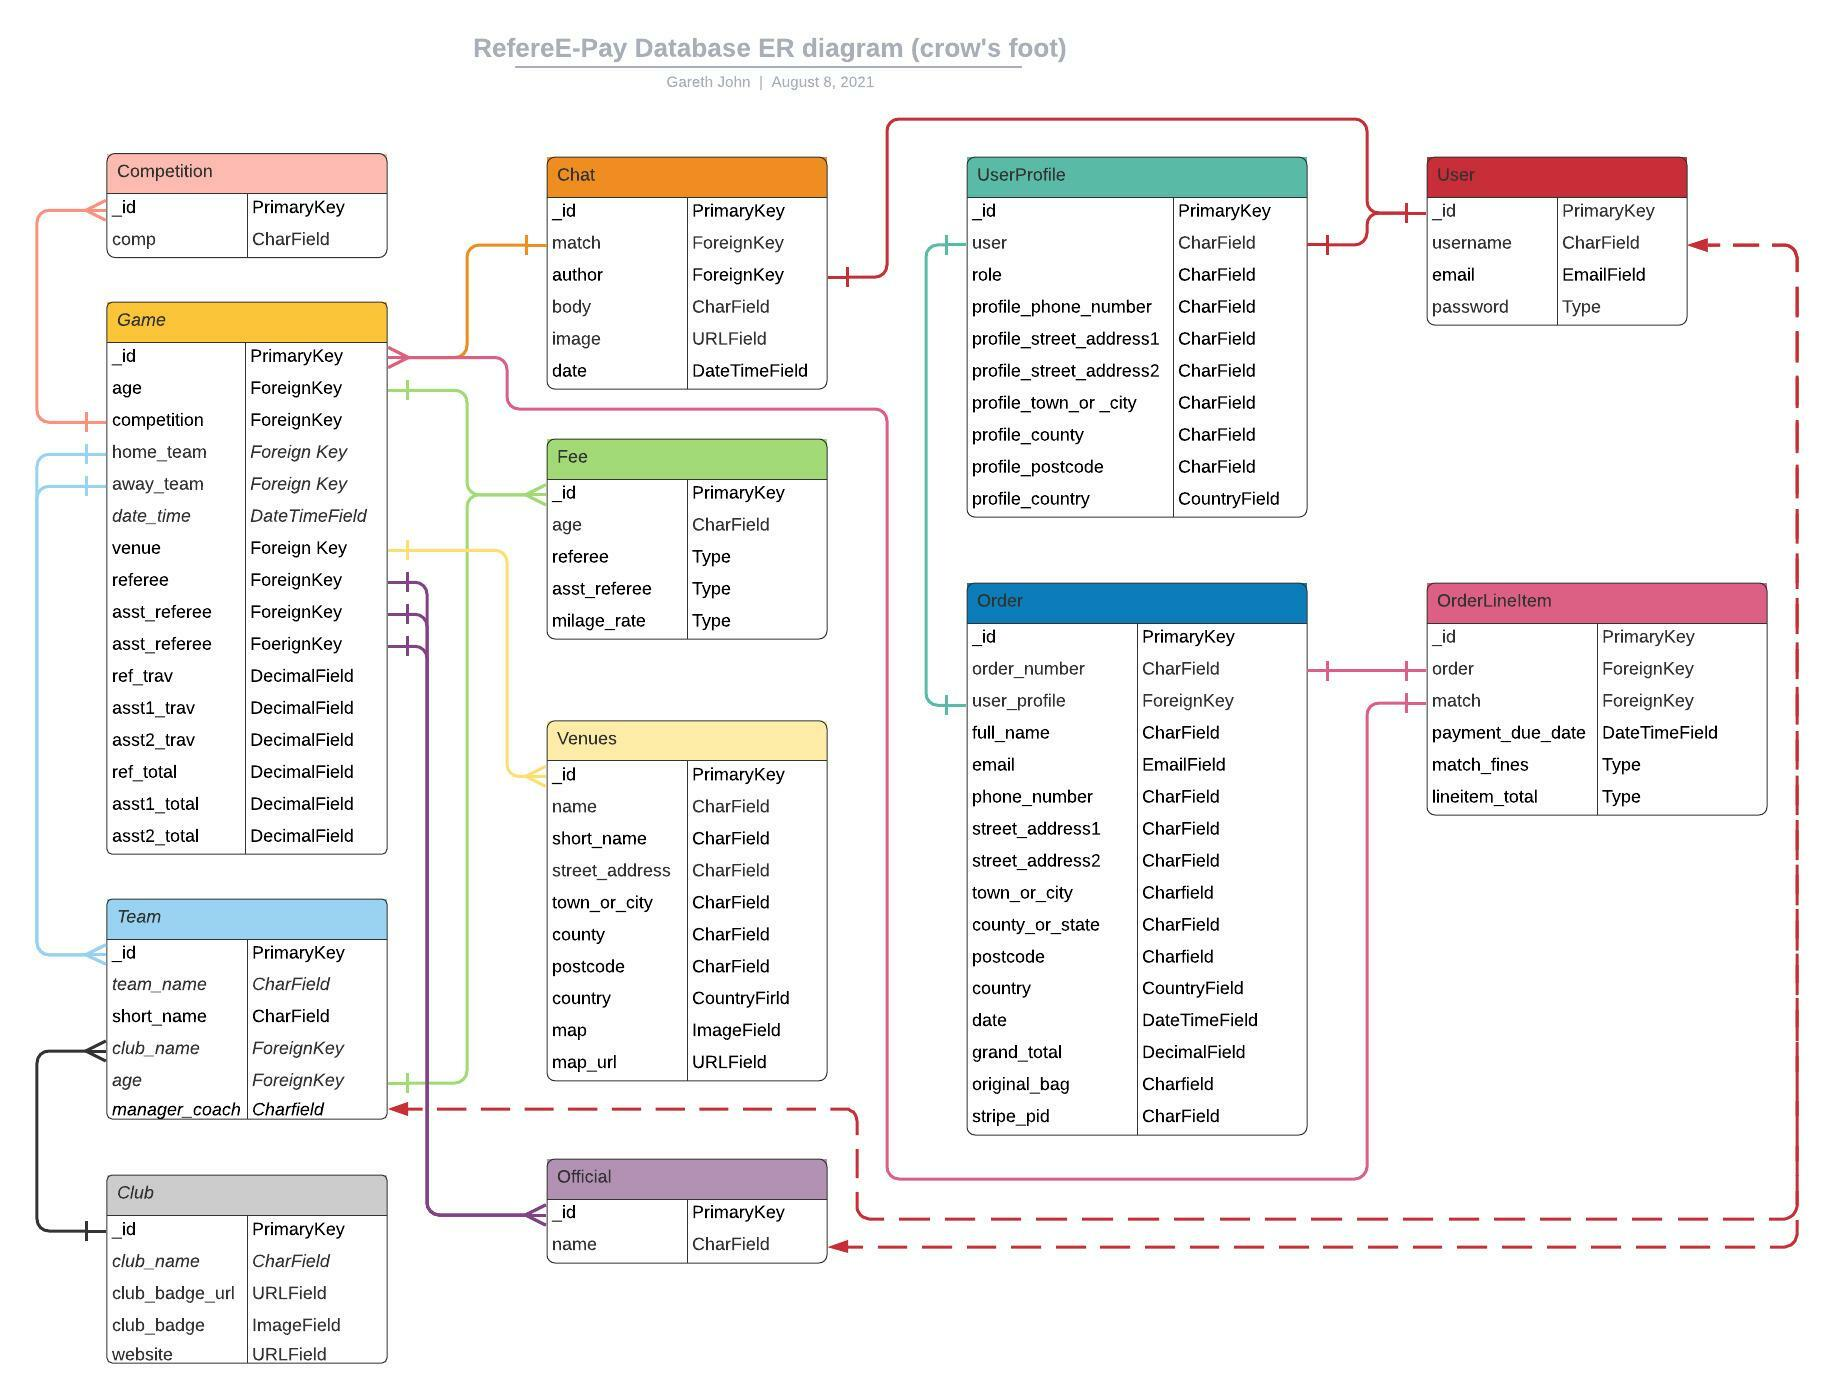
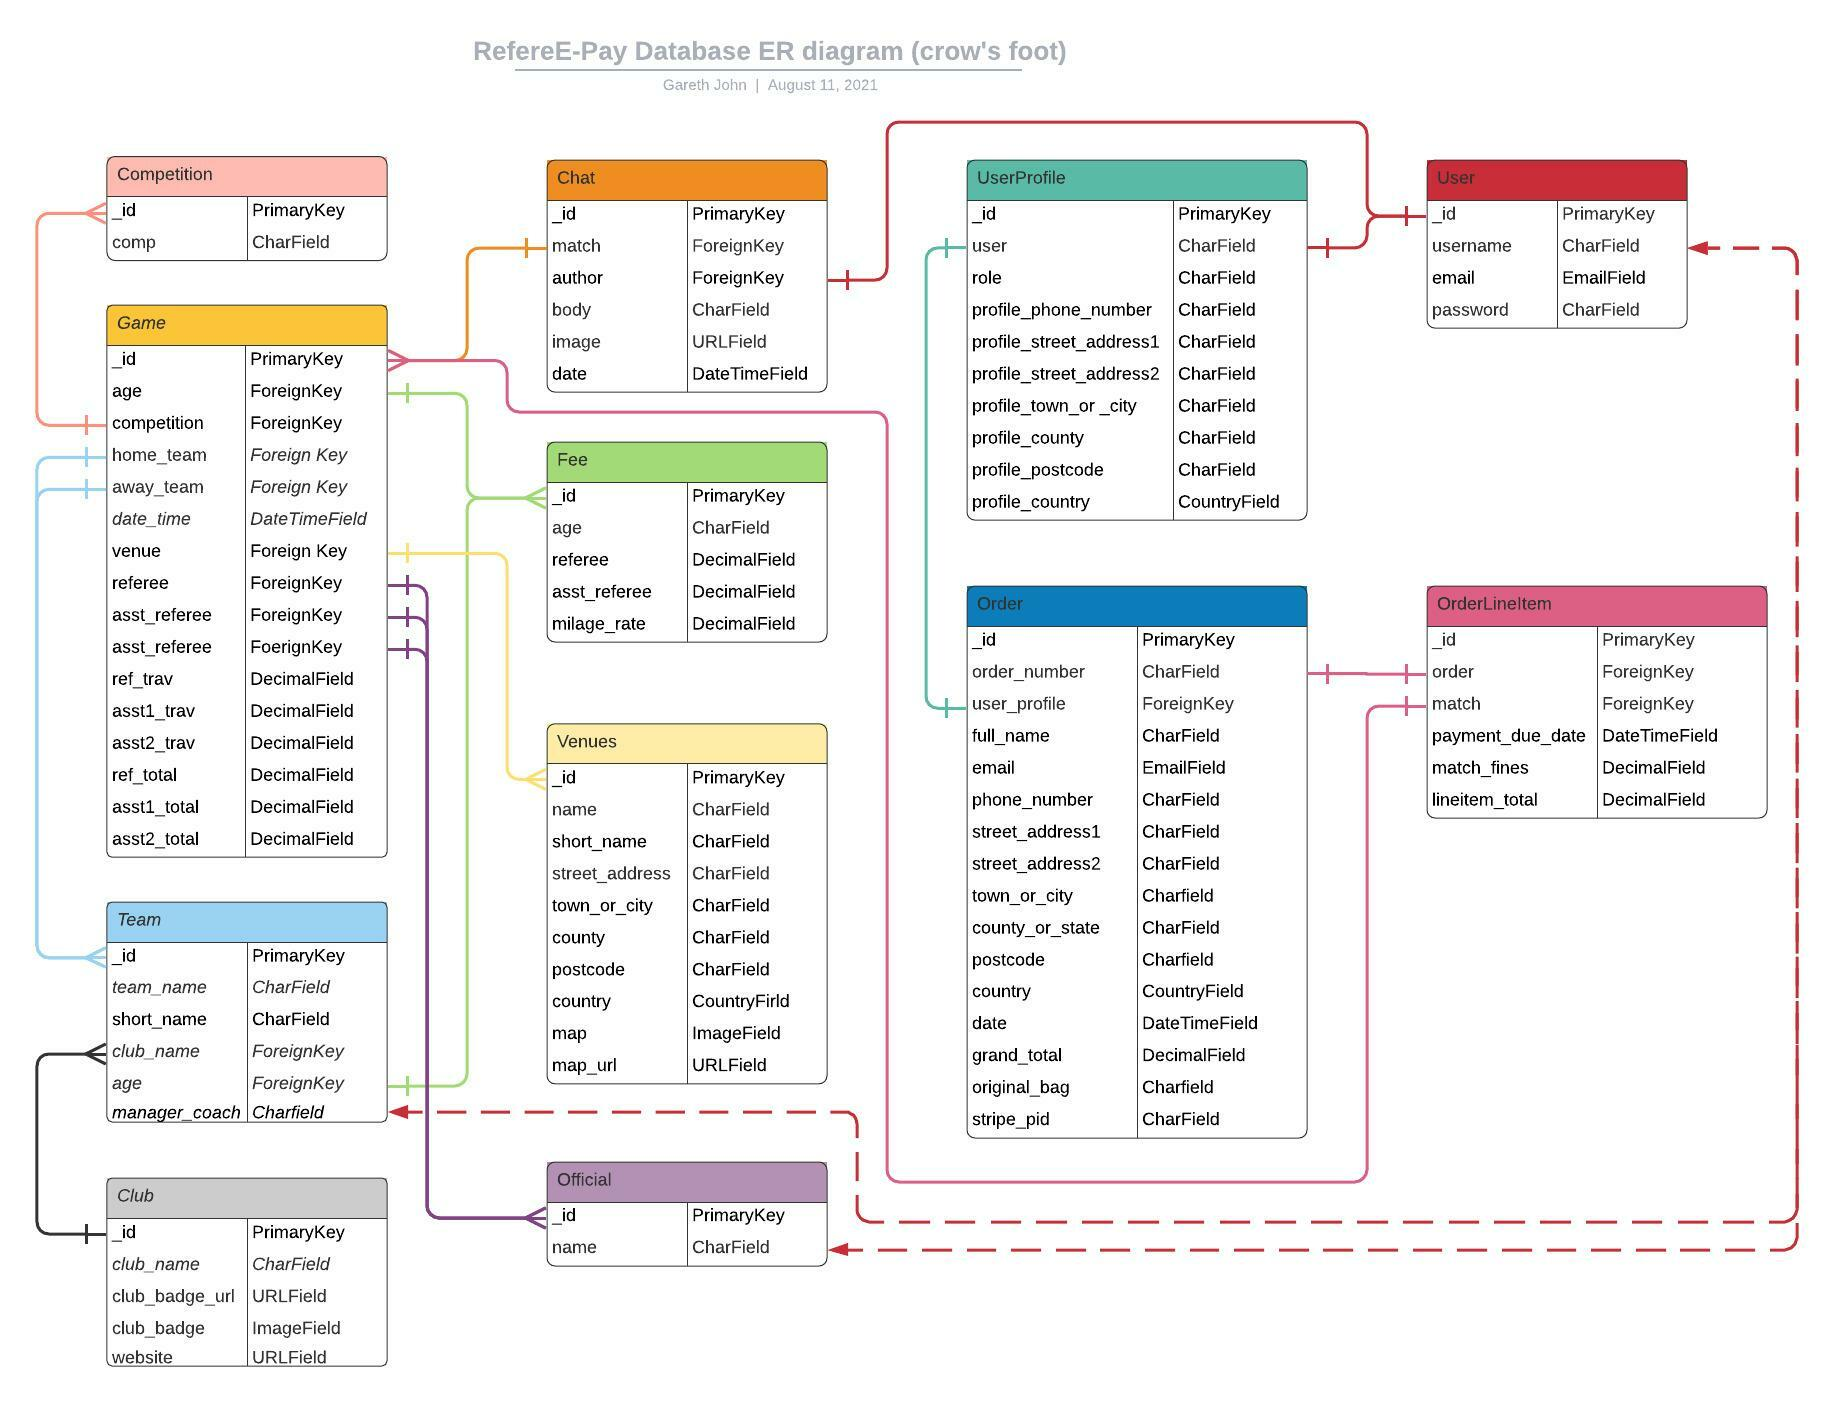
Add content to DB Schema section of README and update 2 images for same

diff --git a/README.md b/README.md
@@ -436,26 +436,126 @@ ______
 
 ## **Database Schema** <a name="dbschema"></a>  
 This app was developed using a SQLite3 database, but was transferred over to a Postgres DB on Deployment.
-The ER diagram below illustrates the relationships between the each of the Models.
+The database schema below illustrates the relationships between the each of the Models.
 ![RefereE-Pay Schema](https://github.com/GazzaJ/CI-MS4-RefereE-pay/blob/master/ReadMe_Images/referee-pay-db-schema.jpeg "Database Schema")
 
-The schema contains four collections, with each collection containing multiple documents. 
- - **Users**
- Stores user data. Initially populated with username and password and a default profile image when users register on the app. Once logged in users can upload their own image URL, specify their town or city. If the user elects to subscribe to the site, they are then able to provide their email address.
-> **_I chose to do it this way so users are only required to provide some basic information and can register very easily. Once registered they can decide how much more they want to input at any subsequent point. I believe this simplifies the registration process_**
+The schema contains twelve database tables which can be divided into Three categories:
+1. User related data used to store individuals data like usernames, passwords, roles etc.
+2. Those required to build up the Game details and associated logic like match fees.
+3. Those required to process and store the match charges payment transactions.
 
- - **Countries**
- This collection was populated from JSON file of 254 countries using the MongoDB Compass app, which simplified the transfer of the data into individual documents within the collection. The JSON data was copied from (https://flagpedia.net/download/api) and uses the CDN link provided on the website to display the flags on the recipe cards and pages. The individual UK countries were subsequently added into the collection by myself, as they did not appear in the original JSON file.
- Each document contains two id fields; the Atlas provided id and that provided in the JSON data. It also contains the country name, an alpha2 field which is the ISO two letter country code and an alpha3 field which is the ISO three letter country code.  
- The alpha2 code is used to render the appropriate country flag.  
+ - **User**
+ Stores user data collected through the AllAuth registration process:
+    - Username
+    - email
+    - password
+Additional paramaters like First Name, Last Name and the users Admin/superuser status can be set in the Admin console.
 
- - **Recipe Category**
- The recipe_category collection contains short documents each defining the type of meal category each recipe might be identified by; such as Breakfast, Brunch, Lunch, Dinner, Desserts, Snacks, Appetisers and Sides. The recipe type documents were populated by myself and can be queried when a recipe is created or edited.
-> **_There are many different ways to categorise recipes, but the one selected seems the most appropriate for my application_**
+ - **Fee**
+    This table stores the Match Officials match fees by age group and role:
+    - Age e.g. U10 (Under 10)
+    - Referee (referees match fee £)
+    - Asst_referee (assistant referees match fee £)
+    - Milage rate (agreed value  per mile travelled in excess of 10 miles)
+    >I have included the milage rate for travel expenses in the event I change the logic, in future versions, to calculate the travel expenses by distance travellled rather than allowing match officials to input their expenses.
+
+ - **Venue**
+    The Venuw table stores the pitch location details, can be rendered to provide pitch location information to website users, who are Team Coaches, Match Officials or potentially supporters :
+    - Name (Playing field name)
+    - Short name (Convenient short name if required)
+    - Street Address
+    - Town or City
+    - County
+    - Postcode
+    - Country
+    - Map (Map showing park layout with actual pitch locations)
+    - Map_url (Link to Google maps)
+
+ - **Official**
+    This is a simple table storing the name of each match officials
+
+ - **Competition**
+    Another simple table to store the name of each competition. Enables games to be grouped into distinct competitions by ability for instance.
+
+ - **Club**
+    Stores a limited set of Club information, sufficient for proof of concept:
+    - Club Name
+    - Club Badge url
+    - Club Badge (Image file upload)
+    - Website url (Club website url)
+    > Arguably this could be expanded in the future to include details such as address, contact numbers and email address.
+
+ - **Team**
+    The Team table stores the basic critical information for each Team:
+    - Team Name
+    - Short Name (Convenient short name if required for smaller displays)
+    - Club Name contains a Foreign Key back to the "Clubs" table, associates each team to a Parent Club.
+    - Age contains a Foreign Key back to the Fees table and categorises each team into a particular age group. Ensures teams of similar age can be selected to play each other.
+    - Manager/Coach lists the Teams Manager or Coach contains a loose logical link back to the Users Table
+
+ - **Game**
+    This table is where much of the previous tables data is joined:
+    - Age - contains a Foreign Key back to the Fees table, enables each game to be categorised by age.
+    - Competition - contains a Foreign Key to the Competitions Table and allows each game to be grouped by it's competition.
+    - Home Team - Foreign Key to the Teams Table and sets the Home team for a game.
+    - Away Team - Foreign Key to the Teams Table and sets the Away team for a game.
+    - Date_Time - A datetime field which is associated with each Games kick off date and time.
+    Also important for calculating match fines (nonpayment fines), and limits when Match Officials can upload travel expenses, and when Coaches or Refs can communicate with each other.
+    - Venue - has a Foreign Key back to the Venue table so each game can be assigned a playing field/pitch
+    - Referee field - a Foreign Key back to the Match Officials table, enabling the assignment of a match referee
+    - Asst_Referee1 - a Foreign Key back to the Match Officials table, enabling the assignment of a match assistant referee. All Match officials are essentially qualified referees so there is no additional complexity of assigning specific roles to each match official.
+    - Asst_Referee2 - a Foreign Key back to the Match Officials table, enabling the assignment of a match assistant referee. All Match officials are essentially qualified referees so there is no additional complexity of assigning specific roles to each match official.
+    - Ref_trav - added to store the input from Match Officials as and when they update any travel expenses
+    - Asst1_trav - added to store the input from Match Officials as and when they update any travel expenses
+    - Asst2_trav - added to store the input from Match Officials as and when they update any travel expenses
+    - Ref_total - display the total fee for the referee combining match fee with any travel expenses
+    - Asst1_total - display the total fee for the assistant referee (if assigned) combining match fee with any travel expenses
+    - Asst2_total - display the total fee for the assistant referee (if assigned) combining match fee with any travel expenses
+
+ - **Chat**
+ Stores messages associated with an associated game, so the messages can be rendered by game and by authors role. This table is critical to allow in app communication between coach and ref.
+    - Match - is a Foreign Key back to the game_id, and allows storage of messages by game
+    - Author - a Foreign Key back to the User Table identifies the author of the message
+    - Body - The content of the message
+    - Image - Coaches and Refs are thus able to upload and save match related images, like the condition of the pitch, goals etc.
+    - date - a date time field with auto_now_add set to True, and provides a means to order the messages by, so they are displayed chronologically
+    - 
+ - **User Profile**
+    Primarily used to store Billing address information and a their role if applicable. Used to prefill the payment details for any subsequent orders.
+    - User - a one to one relationship back to the All Auth Users table.
+    - Role - Stores a users role e.g. Coach, Match Official or Admin. Is used to set permissions for certain functions by role. For example any superusers and match officials can add Travel expenses, and only Coaches and Superusers can add a match to the kit bag for payment.
+    - Profile_phone_number - stores the users phone number to the Billing information if they choose the save info option on the form field
+    - Profile_street_address1 - stores the first line of the users street address to the Billing information if they choose the save info option on the form field
+    - Profile_street_address2 - stores the second line of the users street address to the Billing information if they choose the save info option on the form field
+    - Profile_town_or_city - stores the users town or city of residence to the Billing information if they choose the save info option on the form field
+    - Profile_county - stores the users county/state to the Billing information if they choose the save info option on the form field
+    - Profile_postcode - stores the users postal code (if applicable) to the Billing information if they choose the save info option on the form field
+    - Profile_country - stores the users country of residence to the Billing information if they choose the save info option on the form field
+
+ - **Order**
+    Stores all of the information critical to processing a payment.
+    - Order_number - Stores the unique alphanumeric number generates for each transaction
+    - User_profile - a Foreign Key back to the Users UserProfile table
+    - Full_name - Records the users full name
+    - Email -  Records the users email address
+    - Phone_number -  Records the users phone number
+    - Street_address1 -  Records the first line of the users street address
+    - Street_address2 -  Records the second line of the users street address
+    - Town_or_city -  Records the users town or city of residence
+    - County_or_state -  Records the users county or state
+    - Postcode -  Records the users potal code
+    - Country -  Records the users country of residence
+    - Date - Stores the date of the transaction if successfully processed by Stripe
+    - Grand_total - Records and saves the Grand total of all matches in the kit bag
+    - Original_bag - Stores the id of games that have been successfully paid for. This is used to identify matches that have already been poaid for and to marck them as paid and remove the "Add to Bag" functionality.
+    - Stripe_pid - Records and saves the stripe pid for the transaction
  
- - **Recipes**
- The recipes collection is the largest in the database as it combines user text input with data retrieved from the other collections; all of the user supplied input with fields from the other collections. I have selected what I view as essential fields for a basic recipe app, though clearly many more could be added.
-Recipe Ingredients and preparation step data is formatted into an Array by splitting the data using each new line. When queried the data is formatted into a list for display.
+ - **Order Lineitem**
+    - Order - is a Foreign key back to the Order_id in the Order Table.
+    - Match - a Foreign Key back to the Game_id of the Game table, associates the lineitems with a specific game
+    - Payment_due_date - a datetime filed used to calculate whether a nonpayment/match fine is applicable. This is set to 24hrs after kick-off date and time. Gives the Coach 24hrs to pay the necessary fees or incur an automatic fine.
+    - Match Fines - Stores the nonpayment fine as an item. This is important to render in the kit bag so Coaches have a full breakdown of the charges they are paying for in each Match.
+    - Lineitem_total - Represents the total for each match and is a sumation of, officials fees, travel expenses and fines.
 
 ___
 ## **Features** <a name="features"></a>
